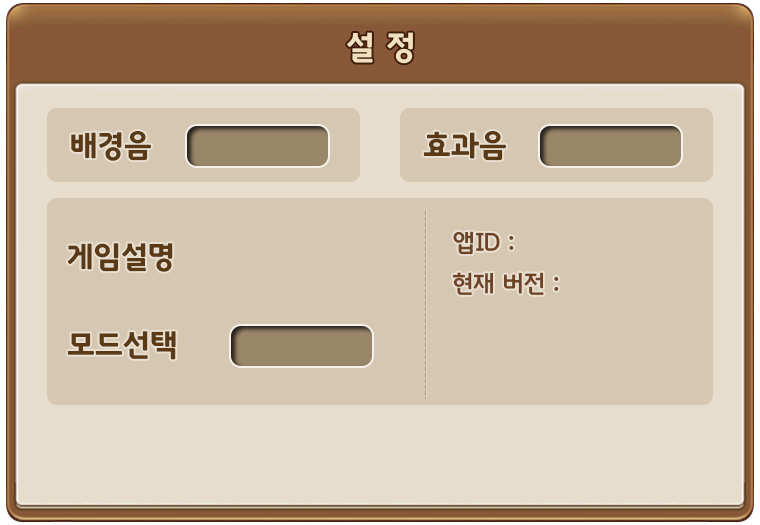
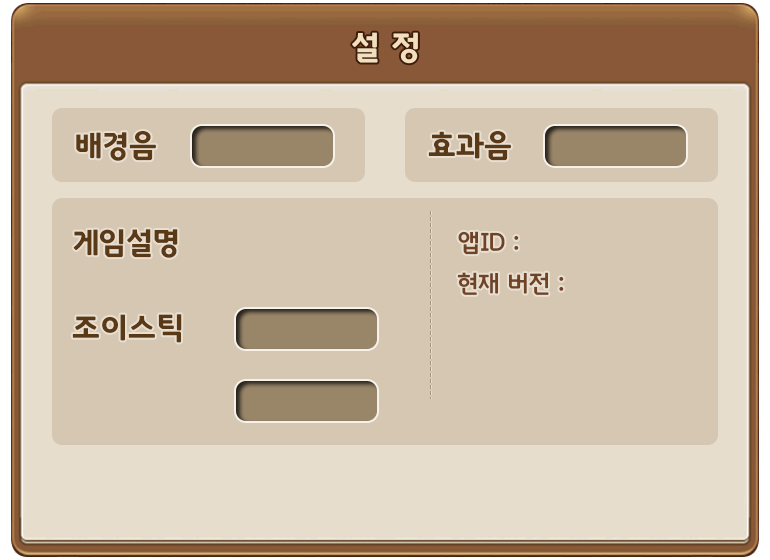
옵션에 조이스틱 고정, 이동 설정되도록 함

Changed region(s): [[0.0, 0.0, 0.9987, 1.0]]

diff --git a/Classes/ControlType.cpp b/Classes/ControlType.cpp
@@ -533,8 +533,22 @@ void ControlJoystickButton::resetTouch()
 void ControlJoystickButton::invisibleControl()
 {
 	offButton();
-	control_ball->setVisible(false);
-	control_circle->setVisible(false);
+	control_ball->setVisible(myDSH->getBoolForKey(kDSH_Key_isControlJoystickFixed));
+	control_circle->setVisible(myDSH->getBoolForKey(kDSH_Key_isControlJoystickFixed));
+	
+	if(myDSH->getBoolForKey(kDSH_Key_isControlJoystickFixed))
+	{
+		if(myDSH->getIntegerForKey(kDSH_Key_controlJoystickDirection) == kControlJoystickDirection_right)
+		{
+			control_circle->setPosition(ccp(480-50-myGD->boarder_value, 50));
+			control_ball->setPosition(ccp(480-50-myGD->boarder_value, 50));
+		}
+		else
+		{
+			control_circle->setPosition(ccp(50+myGD->boarder_value, 50));
+			control_ball->setPosition(ccp(50+myGD->boarder_value, 50));
+		}
+	}
 }
 
 void ControlJoystickButton::ccTouchesBegan(CCSet *pTouches, CCEvent *pEvent)
@@ -649,7 +663,8 @@ void ControlJoystickButton::ccTouchesBegan(CCSet *pTouches, CCEvent *pEvent)
 						after_circle_position.y = 310;
 				}
 				
-				control_circle->setPosition(after_circle_position);
+				if(!myDSH->getBoolForKey(kDSH_Key_isControlJoystickFixed))
+					control_circle->setPosition(after_circle_position);
 				control_circle->setVisible(true);
 				
 				control_ball->setPosition(location);
@@ -733,8 +748,8 @@ void ControlJoystickButton::ccTouchesMoved(CCSet *pTouches, CCEvent *pEvent)
 					else if(after_circle_position.y > 310)
 						after_circle_position.y = 310;
 				}
-				
-				control_circle->setPosition(after_circle_position);
+				if(!myDSH->getBoolForKey(kDSH_Key_isControlJoystickFixed))
+					control_circle->setPosition(after_circle_position);
 				
 				control_ball->setPosition(location);
 				touchAction(location, false);
@@ -811,14 +826,30 @@ void ControlJoystickButton::ccTouchesEnded(CCSet *pTouches, CCEvent *pEvent)
 					after_circle_position.y = 310;
 			}
 			
-			control_circle->setPosition(after_circle_position);
+			if(!myDSH->getBoolForKey(kDSH_Key_isControlJoystickFixed))
+				control_circle->setPosition(after_circle_position);
 			
 			control_ball->setPosition(location);
 			touchAction(location, true);
-			control_circle->setVisible(false);
-//			if(myGD->gamescreen_type == kGT_rightUI)	control_circle->setPosition(ccp(50+myGD->boarder_value, 50));
-//			else										control_circle->setPosition(ccp(480-50-myGD->boarder_value, 50));;
-			control_ball->setVisible(false);
+			if(!myDSH->getBoolForKey(kDSH_Key_isControlJoystickFixed))
+			{
+				control_circle->setVisible(false);
+				control_ball->setVisible(false);
+			}
+			else
+			{
+				if(myDSH->getIntegerForKey(kDSH_Key_controlJoystickDirection) == kControlJoystickDirection_right)
+				{
+					control_circle->setPosition(ccp(480-50-myGD->boarder_value, 50));
+					control_ball->setPosition(ccp(480-50-myGD->boarder_value, 50));
+				}
+				else
+				{
+					control_circle->setPosition(ccp(50+myGD->boarder_value, 50));
+					control_ball->setPosition(ccp(50+myGD->boarder_value, 50));
+				}
+			}
+			
 			joystick_touch = NULL;
 		}
 	}
@@ -860,9 +891,9 @@ void ControlJoystickButton::setTouchEnabled( bool t_b )
 		if(joystick_touch)
 		{
 			if(myDSH->getIntegerForKey(kDSH_Key_controlJoystickDirection) == kControlJoystickDirection_left)	control_circle->setPosition(ccp(50+myGD->boarder_value, 50));
-			else										control_circle->setPosition(ccp(480-50-myGD->boarder_value, 50));;
+			else																								control_circle->setPosition(ccp(480-50-myGD->boarder_value, 50));
 
-			control_ball->setVisible(false);
+			control_ball->setVisible(myDSH->getBoolForKey(kDSH_Key_isControlJoystickFixed));
 			myJack->setTouchPointByJoystick(CCPointZero, directionStop, t_b);
 			joystick_touch = NULL;
 		}
@@ -882,15 +913,27 @@ void ControlJoystickButton::myInit( CCObject* t_main, SEL_CallFunc d_readyBack, 
 	beforeDirection = directionStop;
 	control_circle = CCSprite::create("control_joystick_big_circle.png");
 	control_circle->setScale(1.f);
-	control_circle->setVisible(false);
-	//		if(myGD->gamescreen_type == kGT_rightUI)	control_circle->setPosition(ccp(50+myGD->boarder_value, 50));
-	//		else										control_circle->setPosition(ccp(480-50-myGD->boarder_value, 50));;
+	control_circle->setVisible(myDSH->getBoolForKey(kDSH_Key_isControlJoystickFixed));
 	addChild(control_circle);
 
 	control_ball = CCSprite::create("control_joystick_big_ball.png");
 	control_ball->setScale(1.f);
-	control_ball->setVisible(false);
+	control_ball->setVisible(myDSH->getBoolForKey(kDSH_Key_isControlJoystickFixed));
 	addChild(control_ball);
+	
+	if(myDSH->getBoolForKey(kDSH_Key_isControlJoystickFixed))
+	{
+		if(myDSH->getIntegerForKey(kDSH_Key_controlJoystickDirection) == kControlJoystickDirection_right)
+		{
+			control_circle->setPosition(ccp(480-50-myGD->boarder_value, 50));
+			control_ball->setPosition(ccp(480-50-myGD->boarder_value, 50));
+		}
+		else
+		{
+			control_circle->setPosition(ccp(50+myGD->boarder_value, 50));
+			control_ball->setPosition(ccp(50+myGD->boarder_value, 50));
+		}
+	}
 
 	CCNodeLoaderLibrary* nodeLoader = CCNodeLoaderLibrary::sharedCCNodeLoaderLibrary();
 	CCBReader* reader = new CCBReader(nodeLoader);
@@ -898,7 +941,6 @@ void ControlJoystickButton::myInit( CCObject* t_main, SEL_CallFunc d_readyBack, 
 	button_ani = reader->getAnimationManager();
 	//		draw_button = CCSprite::create("ui_draw.png");
 	if(myDSH->getIntegerForKey(kDSH_Key_controlJoystickDirection) == kControlJoystickDirection_left)		draw_button->setPosition(ccp(480-25,25));
-//	else if(myGD->gamescreen_type == kGT_leftUI)	draw_button->setPosition(ccp(25,25));
 	else								draw_button->setPosition(ccp(25,25));
 	addChild(draw_button);
 
@@ -914,11 +956,6 @@ void ControlJoystickButton::offButton()
 {
 	button_ani->runAnimationsForSequenceNamed("cast1stop");
 }
-
-
-
-
-
 
 
 //////////////////////////////////////////////// Joystick ///////////////////////////////////////////////////////////////////////////////

diff --git a/Classes/OptionPopup.cpp b/Classes/OptionPopup.cpp
@@ -45,6 +45,8 @@ enum OptionPopupMenuTag{
 	kOP_MT_withdraw,
 	kOP_MT_controlJoystickRight,
 	kOP_MT_controlJoystickLeft,
+	kOP_MT_joystickFixed,
+	kOP_MT_joystickMove,
 	kOP_MT_tutorial,
 	kOP_MT_minsu
 };
@@ -195,6 +197,46 @@ bool OptionPopup::init()
 		joystick_right_item->setEnabled(true);
 		joystick_left_item->setEnabled(false);
 	}
+	
+	
+	CCSprite* n_joystick_fixed = CCSprite::create("option_mode_lock.png");
+	n_joystick_fixed->setColor(ccGRAY);
+	CCSprite* s_joystick_fixed = CCSprite::create("option_mode_lock.png");
+	s_joystick_fixed->setColor(ccc3(100, 100, 100));
+	CCSprite* d_joystick_fixed = CCSprite::create("option_mode_lock.png");
+	
+	joystick_fixed_item = CCMenuItemSprite::create(n_joystick_fixed, s_joystick_fixed, d_joystick_fixed, this, menu_selector(OptionPopup::menuAction));
+	joystick_fixed_item->setTag(kOP_MT_joystickFixed);
+	
+	CCMenu* joystick_fixed_menu = CCMenu::createWithItem(joystick_fixed_item);
+	joystick_fixed_menu->setPosition(getContentPosition(kOP_MT_joystickFixed));
+	main_case->addChild(joystick_fixed_menu, kOP_Z_content);
+	
+	
+	CCSprite* n_joystick_move = CCSprite::create("option_mode_move.png");
+	n_joystick_move->setColor(ccGRAY);
+	CCSprite* s_joystick_move = CCSprite::create("option_mode_move.png");
+	s_joystick_move->setColor(ccc3(100, 100, 100));
+	CCSprite* d_joystick_move = CCSprite::create("option_mode_move.png");
+	
+	joystick_move_item = CCMenuItemSprite::create(n_joystick_move, s_joystick_move, d_joystick_move, this, menu_selector(OptionPopup::menuAction));
+	joystick_move_item->setTag(kOP_MT_joystickMove);
+	
+	CCMenu* joystick_move_menu = CCMenu::createWithItem(joystick_move_item);
+	joystick_move_menu->setPosition(getContentPosition(kOP_MT_joystickMove));
+	main_case->addChild(joystick_move_menu, kOP_Z_content);
+	
+	if(myDSH->getBoolForKey(kDSH_Key_isControlJoystickFixed))
+	{
+		joystick_fixed_item->setEnabled(false);
+		joystick_move_item->setEnabled(true);
+	}
+	else
+	{
+		joystick_fixed_item->setEnabled(true);
+		joystick_move_item->setEnabled(false);
+	}
+	
 	
 	CCSprite* n_tutorial = CCSprite::create("option_tutorial.png");
 	CCSprite* s_tutorial = CCSprite::create("option_tutorial.png");
@@ -439,6 +481,20 @@ void OptionPopup::menuAction(CCObject* pSender)
 		joystick_left_item->setEnabled(false);
 		is_menu_enable = true;
 	}
+	else if(tag == kOP_MT_joystickFixed)
+	{
+		myDSH->setBoolForKey(kDSH_Key_isControlJoystickFixed, true);
+		joystick_fixed_item->setEnabled(false);
+		joystick_move_item->setEnabled(true);
+		is_menu_enable = true;
+	}
+	else if(tag == kOP_MT_joystickMove)
+	{
+		myDSH->setBoolForKey(kDSH_Key_isControlJoystickFixed, false);
+		joystick_fixed_item->setEnabled(true);
+		joystick_move_item->setEnabled(false);
+		is_menu_enable = true;
+	}
 	else if(tag == kOP_MT_tutorial)
 	{
 		CCDirector::sharedDirector()->replaceScene(TutorialScene::scene());
@@ -510,19 +566,21 @@ CCPoint OptionPopup::getContentPosition(int t_tag)
 {
 	CCPoint return_value;
 	
-	if(t_tag == kOP_MT_close)				return_value = ccp(400,270);
-	else if(t_tag == kOP_MT_bgm)			return_value = ccp(178,219);
-	else if(t_tag == kOP_MT_effect)			return_value = ccp(354,219);
+	if(t_tag == kOP_MT_close)				return_value = ccp(400,279);
+	else if(t_tag == kOP_MT_bgm)			return_value = ccp(178,227);
+	else if(t_tag == kOP_MT_effect)			return_value = ccp(354,227);
 	else if(t_tag == kOP_MT_gameui_left)	return_value = ccp(143,113);
 	else if(t_tag == kOP_MT_gameui_full)	return_value = ccp(204, 113);
 	else if(t_tag == kOP_MT_gameui_right)	return_value = ccp(265, 113);
-	else if(t_tag == kOP_MT_help)			return_value = ccp(224,65);
-	else if(t_tag == kOP_MT_logout)			return_value = ccp(350, 65);
-	else if(t_tag == kOP_MT_noti)			return_value = ccp(117, 65);
-	else if(t_tag == kOP_MT_withdraw)		return_value = ccp(356, 110);
-	else if(t_tag == kOP_MT_controlJoystickRight)	return_value = ccp(173, 120);
-	else if(t_tag == kOP_MT_controlJoystickLeft)	return_value = ccp(230, 120);
-	else if(t_tag == kOP_MT_tutorial)		return_value = ccp(200, 163);
+	else if(t_tag == kOP_MT_help)			return_value = ccp(224,54);
+	else if(t_tag == kOP_MT_logout)			return_value = ccp(350, 54);
+	else if(t_tag == kOP_MT_noti)			return_value = ccp(117, 54);
+	else if(t_tag == kOP_MT_withdraw)		return_value = ccp(356, 120);
+	else if(t_tag == kOP_MT_controlJoystickRight)	return_value = ccp(173, 135);
+	else if(t_tag == kOP_MT_controlJoystickLeft)	return_value = ccp(230, 135);
+	else if(t_tag == kOP_MT_joystickFixed)			return_value = ccp(173, 100);
+	else if(t_tag == kOP_MT_joystickMove)			return_value = ccp(230, 100);
+	else if(t_tag == kOP_MT_tutorial)		return_value = ccp(200, 180);
 	else if(t_tag == kOP_MT_minsu)			return_value = ccp(455,25);
 	
 	return_value = ccpSub(return_value, ccp(240,160));

diff --git a/Classes/DataStorageHub.h b/Classes/DataStorageHub.h
@@ -55,6 +55,7 @@ typedef enum t_DSH_Key{
 	kDSH_Key_wasTutorialPopupMissileTrace,
 	kDSH_Key_wasTutorialPopupCrashArea,
 	kDSH_Key_controlJoystickDirection,
+	kDSH_Key_isControlJoystickFixed,
 	kDSH_Key_hasShowTutorial_int1
 }DSH_Key;
 
@@ -280,6 +281,7 @@ public:
 		else if(t_name == kDSH_Key_controlJoystickDirection)			return_value = "cjd";
 		
 		else if(t_name == kDSH_Key_hasShowTutorial_int1)				return_value = "hst%d";
+		else if(t_name == kDSH_Key_isControlJoystickFixed)				return_value = "icjf";
 		
 		return return_value;
 	}

diff --git a/Classes/TicketRequestContent.h b/Classes/TicketRequestContent.h
@@ -291,6 +291,7 @@ private:
 		request_item->setEnabled(false);
 		
 		CCMenu* request_menu = CCMenu::createWithItem(request_item);
+		request_menu->setTouchPriority(touch_priority-1);
 		request_menu->setPosition(0,-110);
 		addChild(request_menu);
 		

diff --git a/Classes/OptionPopup.h b/Classes/OptionPopup.h
@@ -48,6 +48,9 @@ private:
 	CCMenuItem* joystick_right_item;
 	CCMenuItem* joystick_left_item;
 	
+	CCMenuItem* joystick_fixed_item;
+	CCMenuItem* joystick_move_item;
+	
 	void showPopup();
 	void endShowPopup();
 	void hidePopup();
